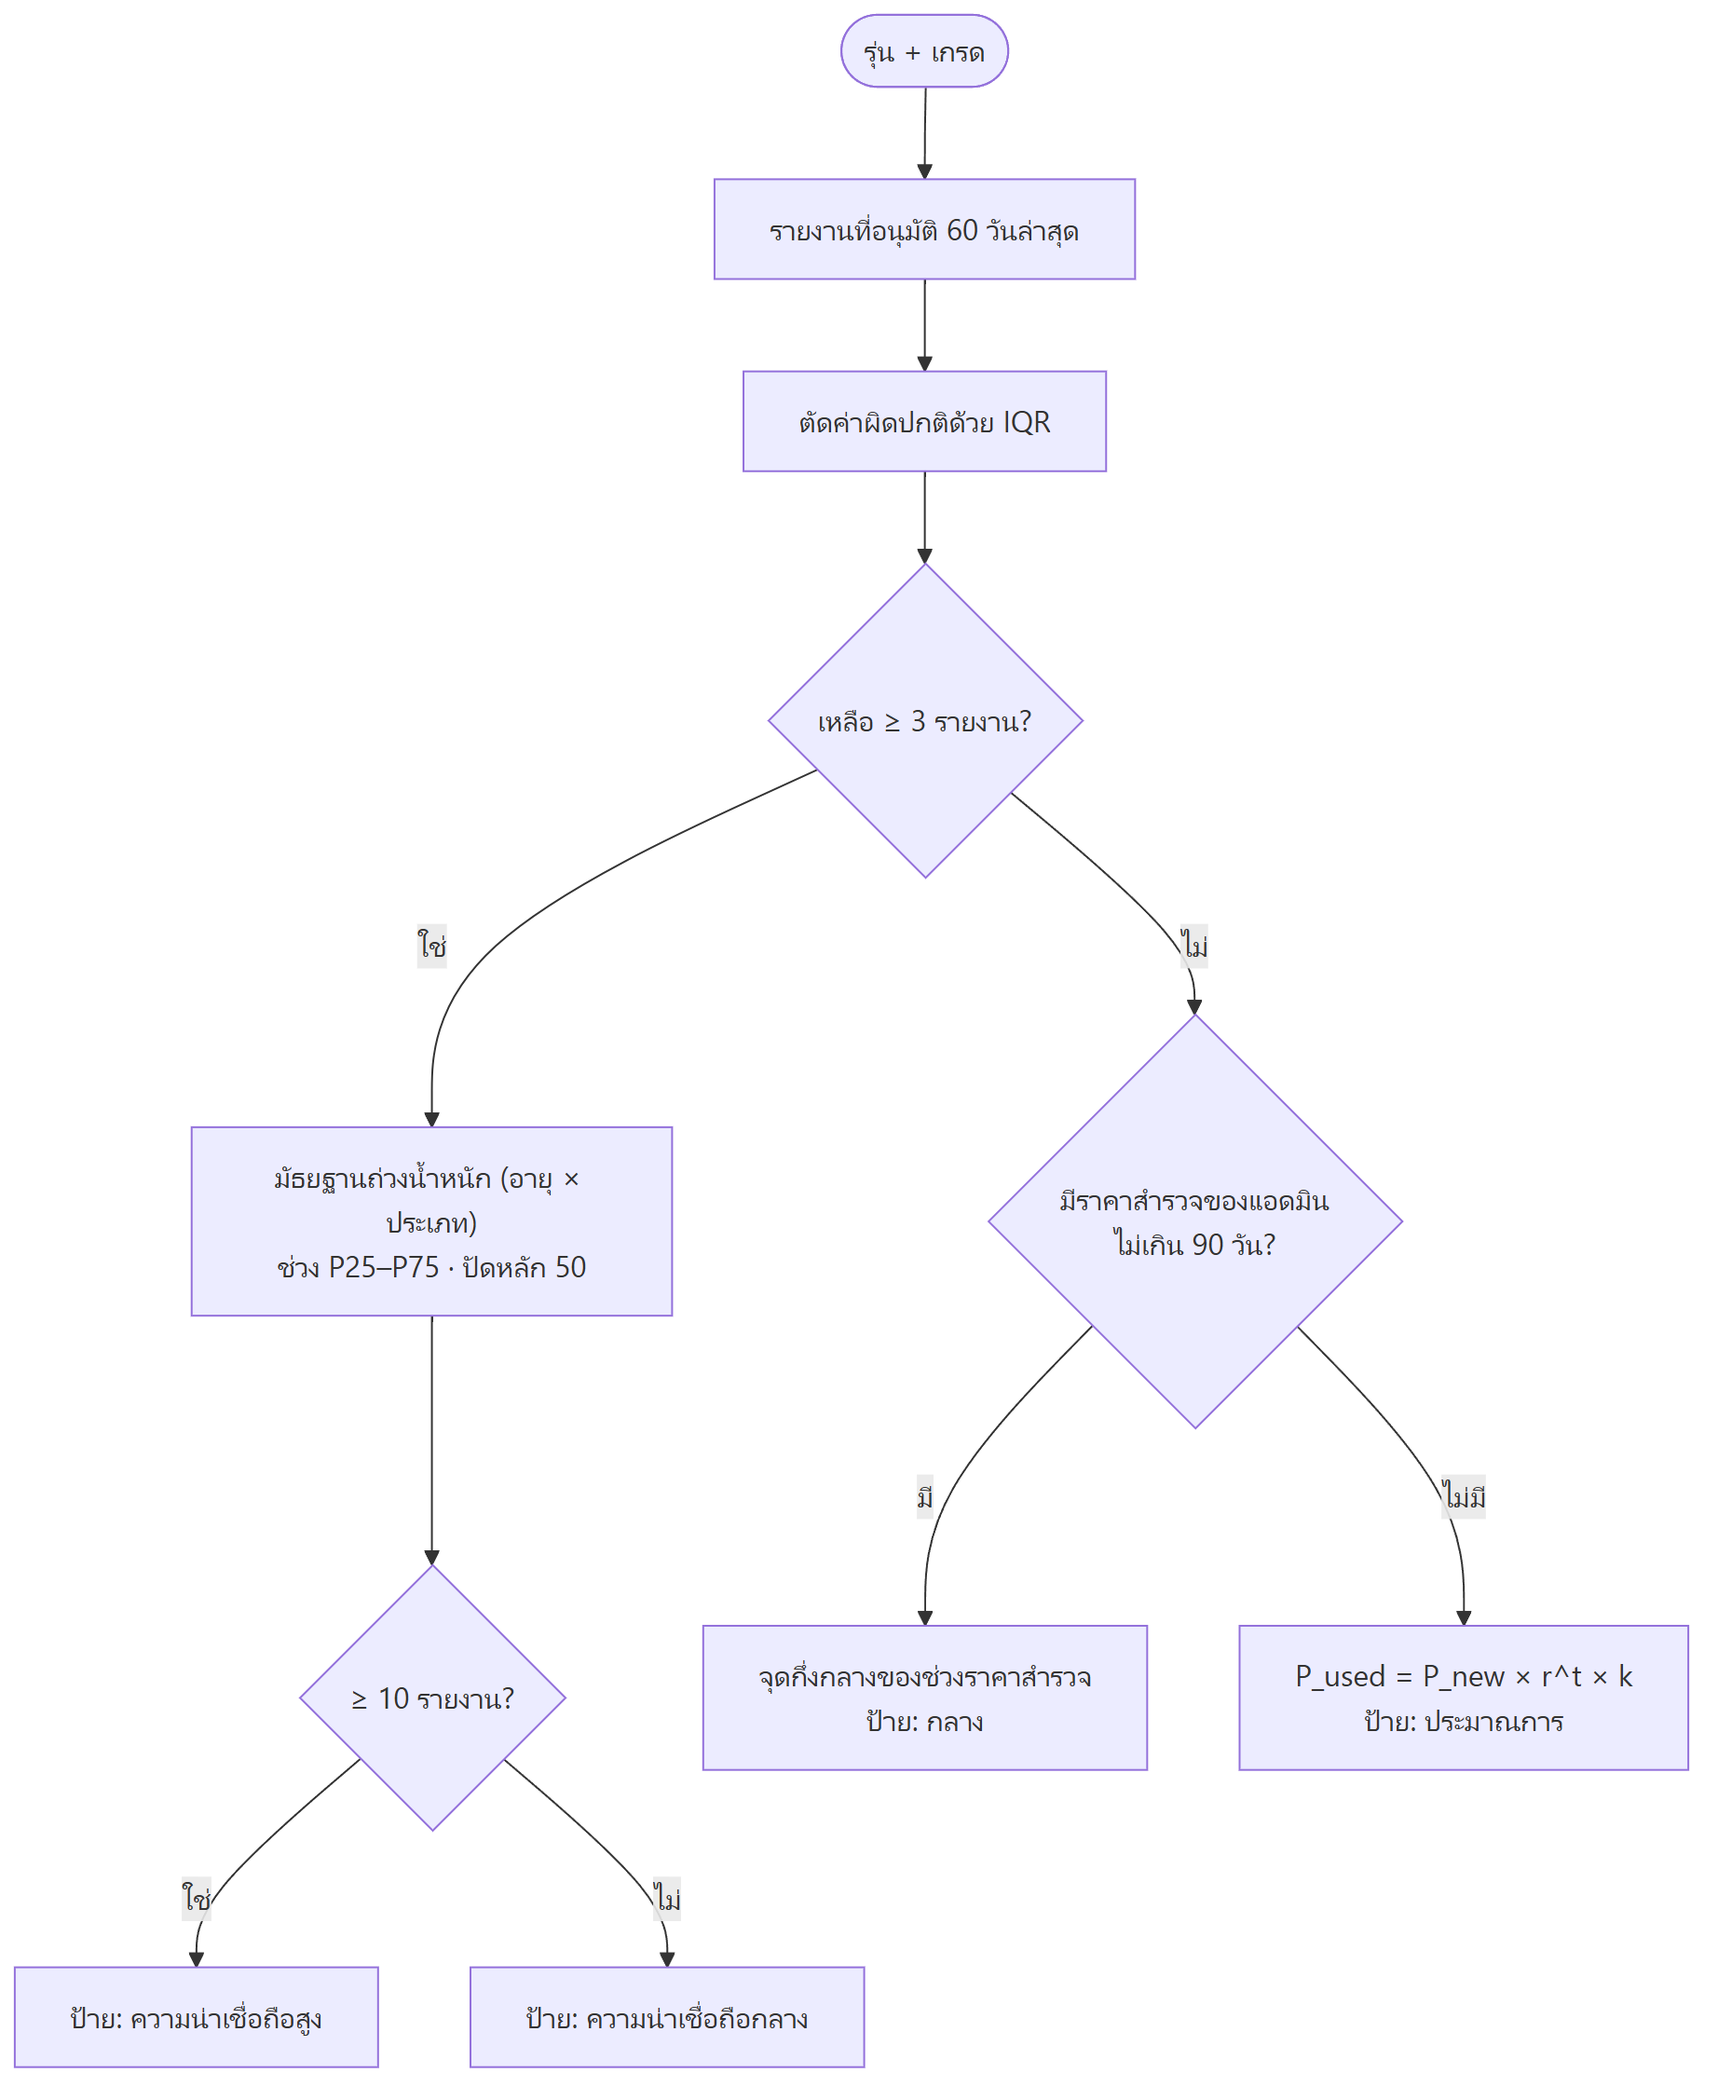
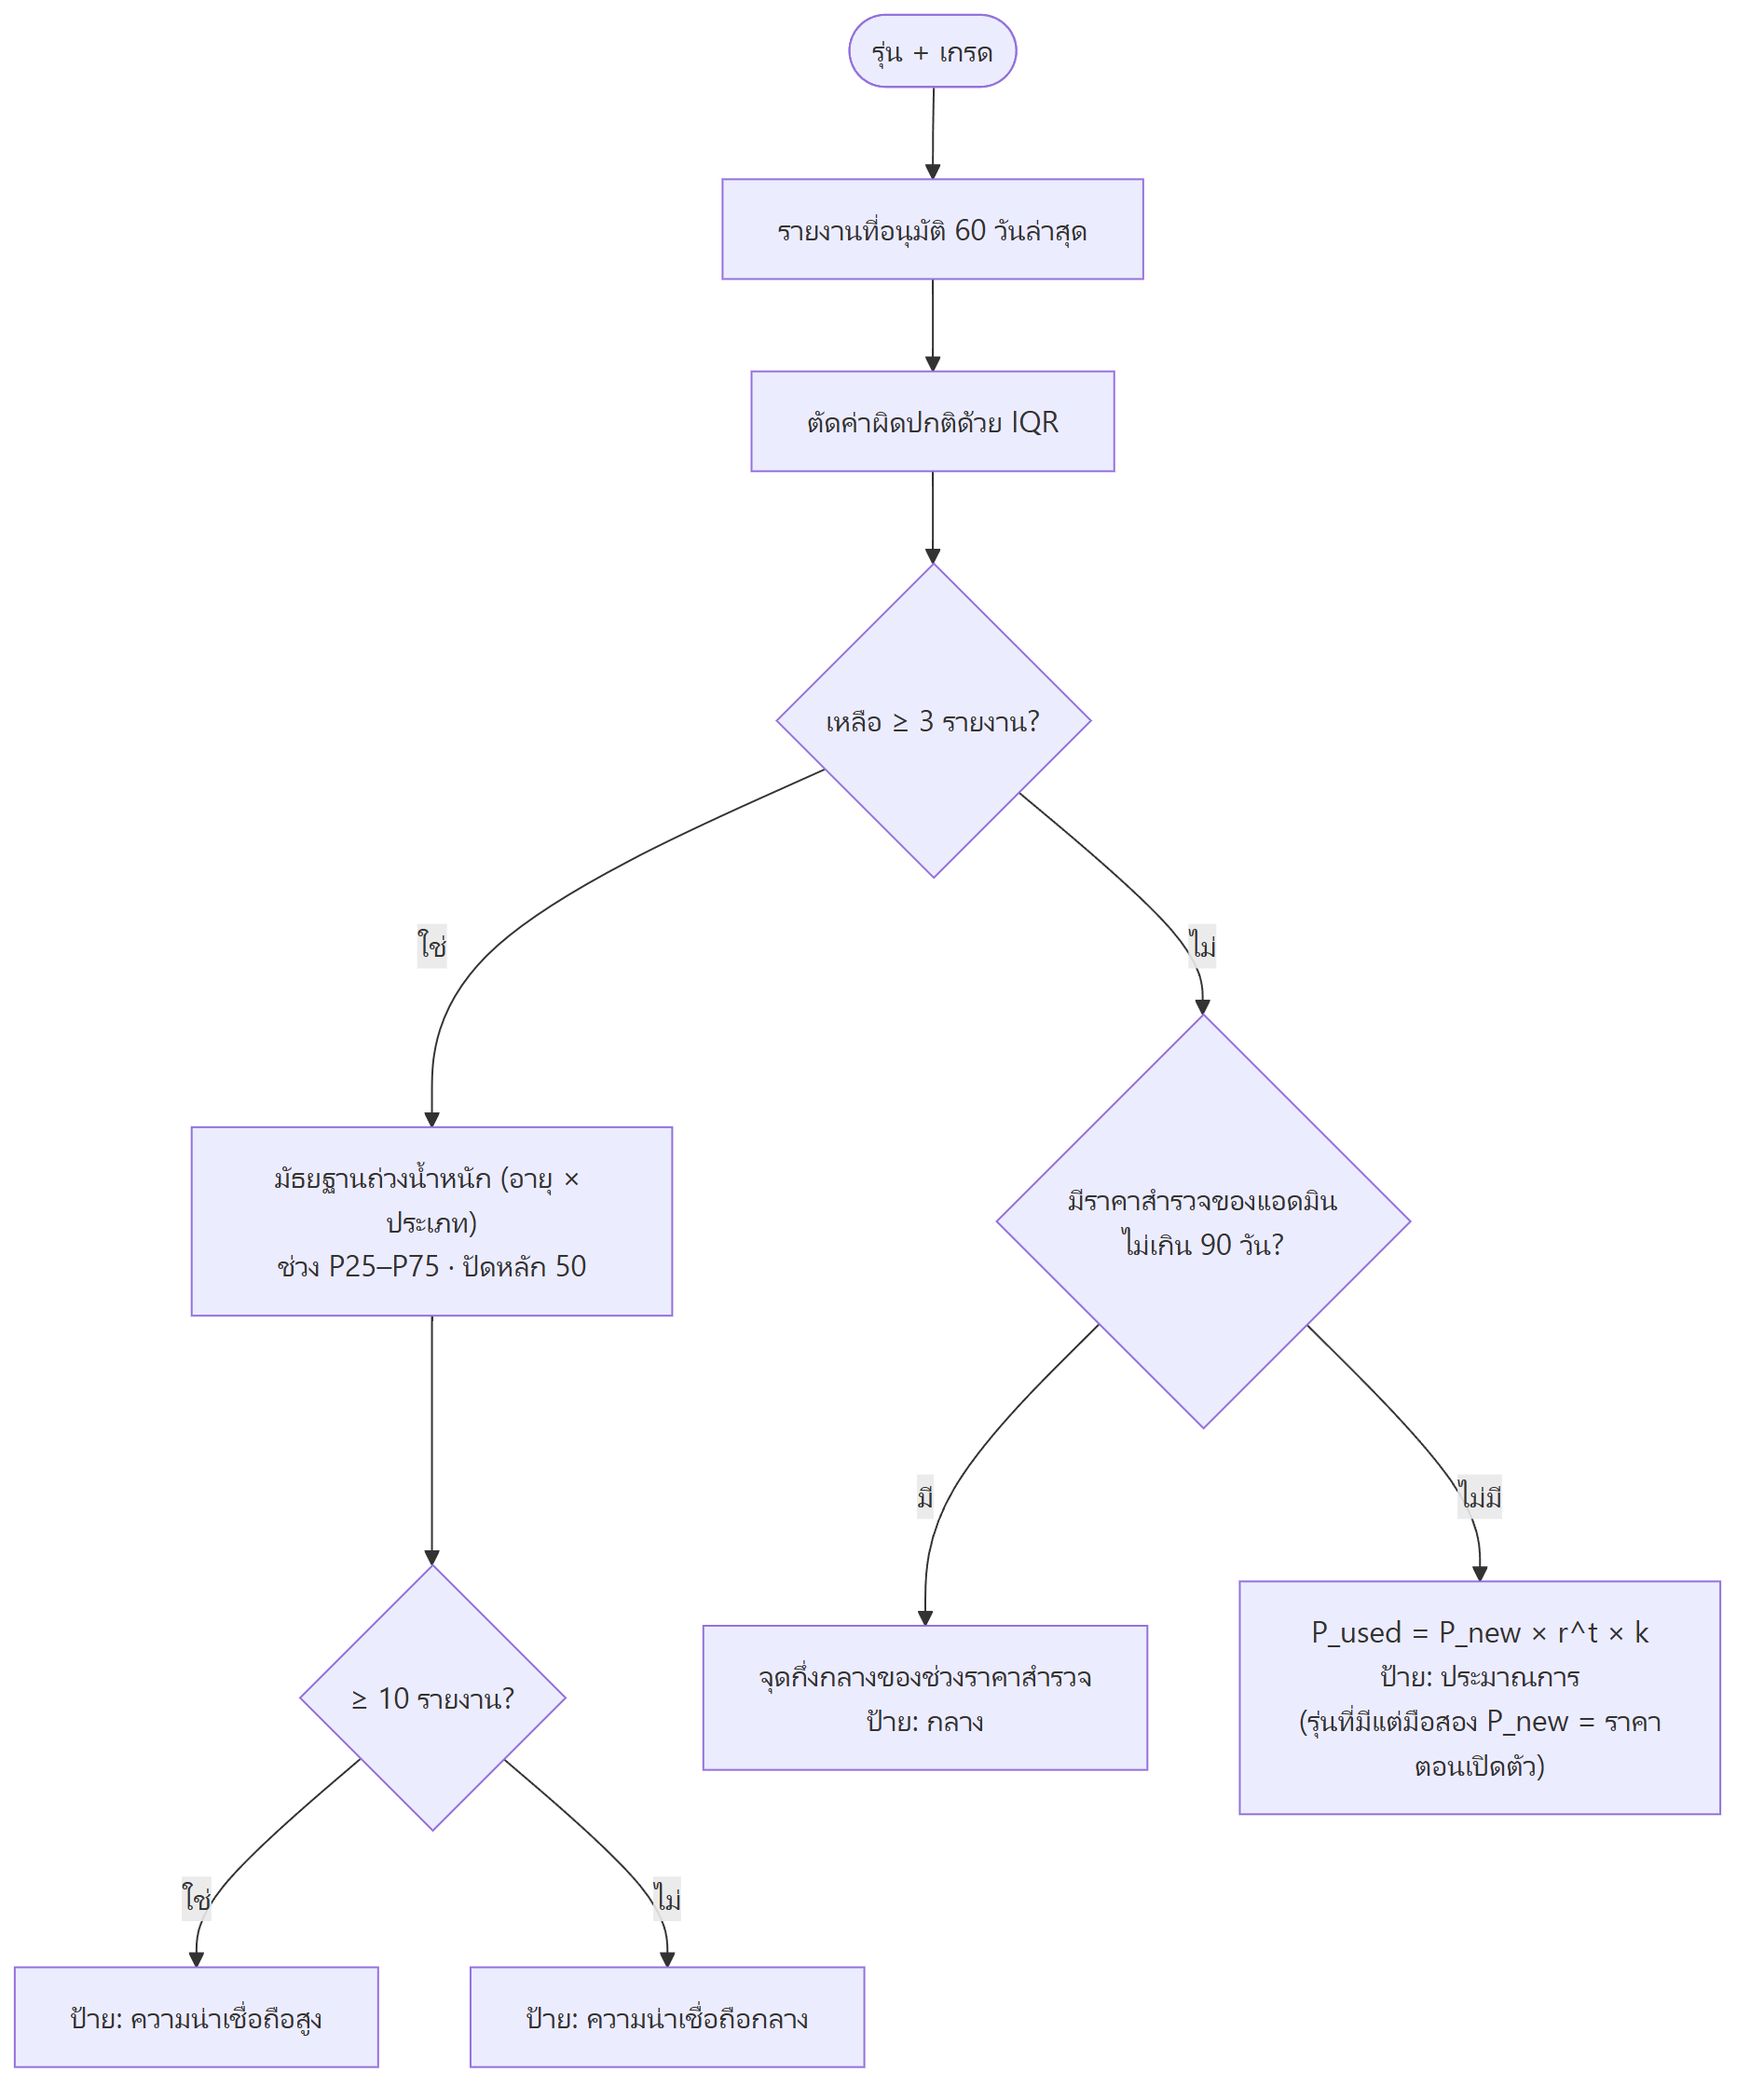
อัปเดตไดอะแกรมให้ครบฟีเจอร์ใหม่: Use Case (ตรวจสเปก ยืนยันอีเมลให้ นำเข้าแบบอัปเดต) ผังเว็บไซต์ (หน้าตรวจสเปก) ER จาก Schema จริง (availability) และ Flowchart จัดตามงบ/ราคามือสอง (รุ่นที่มีแต่มือสอง) พร้อมไฟล์รูปใหม่

diff --git a/docs/diagrams.md b/docs/diagrams.md
@@ -20,7 +20,7 @@ flowchart LR
   subgraph BuildCheck
     direction TB
     uc1((ดูคลังอะไหล่))
-    uc2((จัดสเปกและดูผลตรวจ))
+    uc2((จัดสเปกมือหนึ่ง/มือสองและดูผลตรวจ))
     uc3((จัดสเปกตามงบ))
     uc4((เทียบสเปก))
     uc5((ดูสเปกสาธารณะ / ตลาดมือสอง))
@@ -30,16 +30,17 @@ flowchart LR
     uc9((Fork สเปก))
     uc10((รายงานเนื้อหา / รายงานราคามือสอง))
     uc11((รับแจ้งเตือน / ตั้งเตือนราคา))
-    uc12((จัดการอะไหล่ / นำเข้า CSV))
+    uc12((จัดการอะไหล่ / นำเข้า CSV เพิ่มหรืออัปเดต))
     uc13((ตั้งค่ากฎและสัดส่วนงบ))
-    uc14((จัดการผู้ใช้และรายงาน))
+    uc14((จัดการผู้ใช้ ยืนยันอีเมลให้ และรายงาน))
     uc15((อนุมัติราคามือสอง))
     uc16((ดู Dashboard และบันทึกการทำงาน))
+    uc17((ตรวจสเปกอะไหล่))
   end
 
   guest --- uc1 & uc2 & uc3 & uc4 & uc5 & uc6
   member --- uc7 & uc8 & uc9 & uc10 & uc11
-  admin --- uc12 & uc13 & uc14 & uc15 & uc16
+  admin --- uc12 & uc13 & uc14 & uc15 & uc16 & uc17
 ```
 
 ## ผังเว็บไซต์
@@ -74,6 +75,7 @@ flowchart LR
   home --> adminHome["Dashboard /admin"]
   adminHome --> aParts["จัดการอะไหล่ /admin/parts"] --> aPartForm["เพิ่ม/แก้ /admin/parts/new, [id]"]
   aParts --> aImport["นำเข้า CSV /admin/parts/import"]
+  aParts --> aReview["ตรวจสเปก /admin/parts/review"]
   adminHome --> aUsed["ราคามือสอง /admin/used-prices"]
   adminHome --> aUsers["ผู้ใช้ /admin/users"]
   adminHome --> aReports["รายงาน /admin/reports"]
@@ -85,7 +87,7 @@ flowchart LR
   classDef admin fill:#fdf0e6,stroke:#b5530e,color:#4a2206
   class home,builder,budget,parts,partCat,partDetail,used,builds,buildDetail,profile,compare,guide,about,privacy,auth all
   class usedReport,me,meBuilds,meFav,meNoti,meAlerts,meSettings member
-  class adminHome,aParts,aPartForm,aImport,aUsed,aUsers,aReports,aSettings,aLogs admin
+  class adminHome,aParts,aPartForm,aImport,aReview,aUsed,aUsers,aReports,aSettings,aLogs admin
 ```
 
 ## สถาปัตยกรรมระบบ
@@ -397,6 +399,7 @@ erDiagram
     text image_url
     smallint release_year
     boolean is_active
+    part_availability availability
     text spec_source_url
     boolean spec_verified
     tsvector search_vector
@@ -736,8 +739,8 @@ flowchart TD
 %% อัลกอริทึมจัดสเปกตามงบ (หัวข้อ 4.5) ตามโค้ดใน src/lib/compat/budget.ts
 flowchart TD
   input([งบ · ประเภทการใช้งาน · ยี่ห้อ CPU · ยอมมือสอง?]) --> used{"ยอมใช้มือสอง?"}
-  used -- ใช่ --> swap["หมวดที่ยอม: ใช้ราคากลางมือสอง<br/>แทนราคาใหม่ (ถ้าถูกกว่า)"] --> split
-  used -- ไม่ --> split["แบ่งงบตามสัดส่วนของประเภท"]
+  used -- ใช่ --> swap["หมวดที่ยอม: ใช้ราคากลางมือสอง<br/>แทนราคาใหม่ (ถ้าถูกกว่า)<br/>รุ่นที่มีแต่มือสอง: ใช้ราคามือสองเสมอ<br/>ไม่มีราคากลาง = ตัดออก"] --> split
+  used -- ไม่ --> drop["ตัดรุ่นที่มีแต่มือสองออก"] --> split["แบ่งงบตามสัดส่วนของประเภท"]
   split --> gpu["การ์ดจอคะแนนสูงสุดในงบหมวด<br/>(ออฟฟิศ + CPU มีกราฟิกในตัว = ข้าม)"]
   gpu --> cpu["CPU คะแนนสูงสุดในงบหมวด"]
   cpu --> rest["เมนบอร์ด (R01–R02, M.2 ≥ 1) → แรม (R04–R06)<br/>→ SSD NVMe → PSU (วัตต์ ≥ ค่าแนะนำ)<br/>→ เคส (R08, R09, R15) → ชุดระบายความร้อน (R10–R13)"]
@@ -768,7 +771,7 @@ flowchart TD
   conf -- ไม่ --> mid["ป้าย: ความน่าเชื่อถือกลาง"]
   n -- ไม่ --> sv{"มีราคาสำรวจของแอดมิน<br/>ไม่เกิน 90 วัน?"}
   sv -- มี --> svp["จุดกึ่งกลางของช่วงราคาสำรวจ<br/>ป้าย: กลาง"]
-  sv -- ไม่มี --> est["P_used = P_new × r^t × k<br/>ป้าย: ประมาณการ"]
+  sv -- ไม่มี --> est["P_used = P_new × r^t × k<br/>ป้าย: ประมาณการ<br/>(รุ่นที่มีแต่มือสอง P_new = ราคาตอนเปิดตัว)"]
 ```
 
 ## Sequence Diagram เลือกอะไหล่และบันทึกอัตโนมัติ
